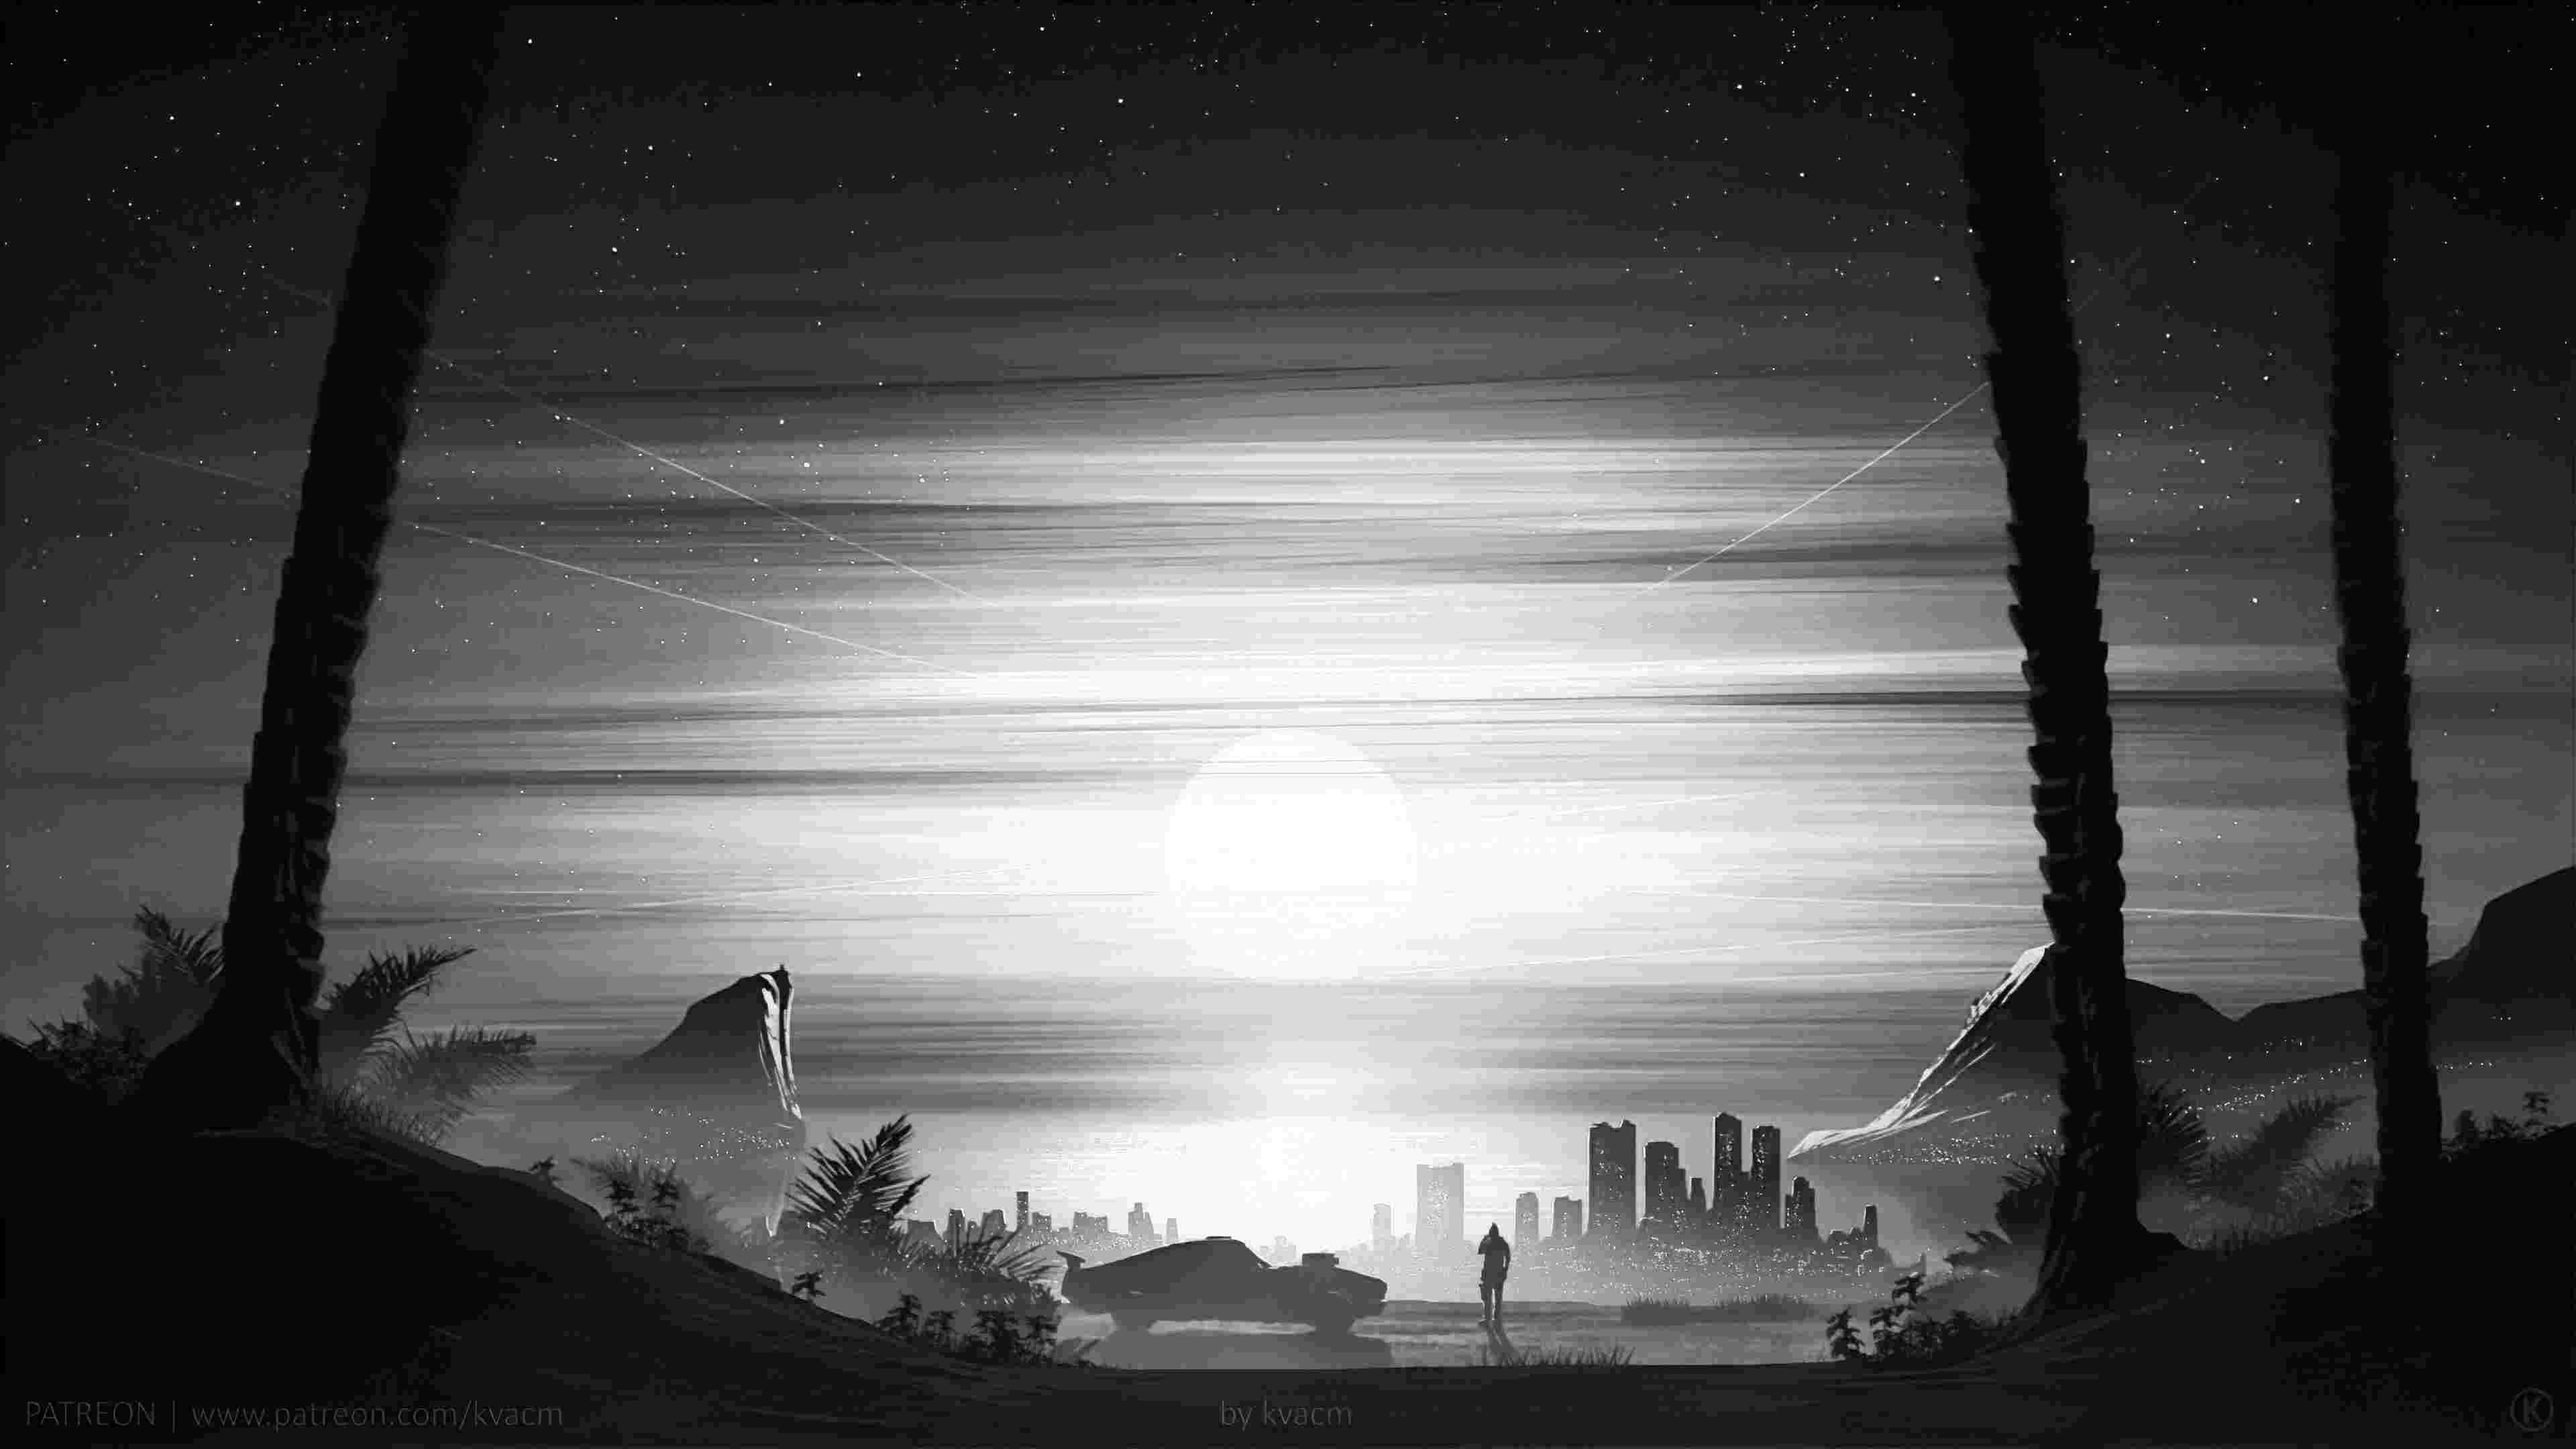
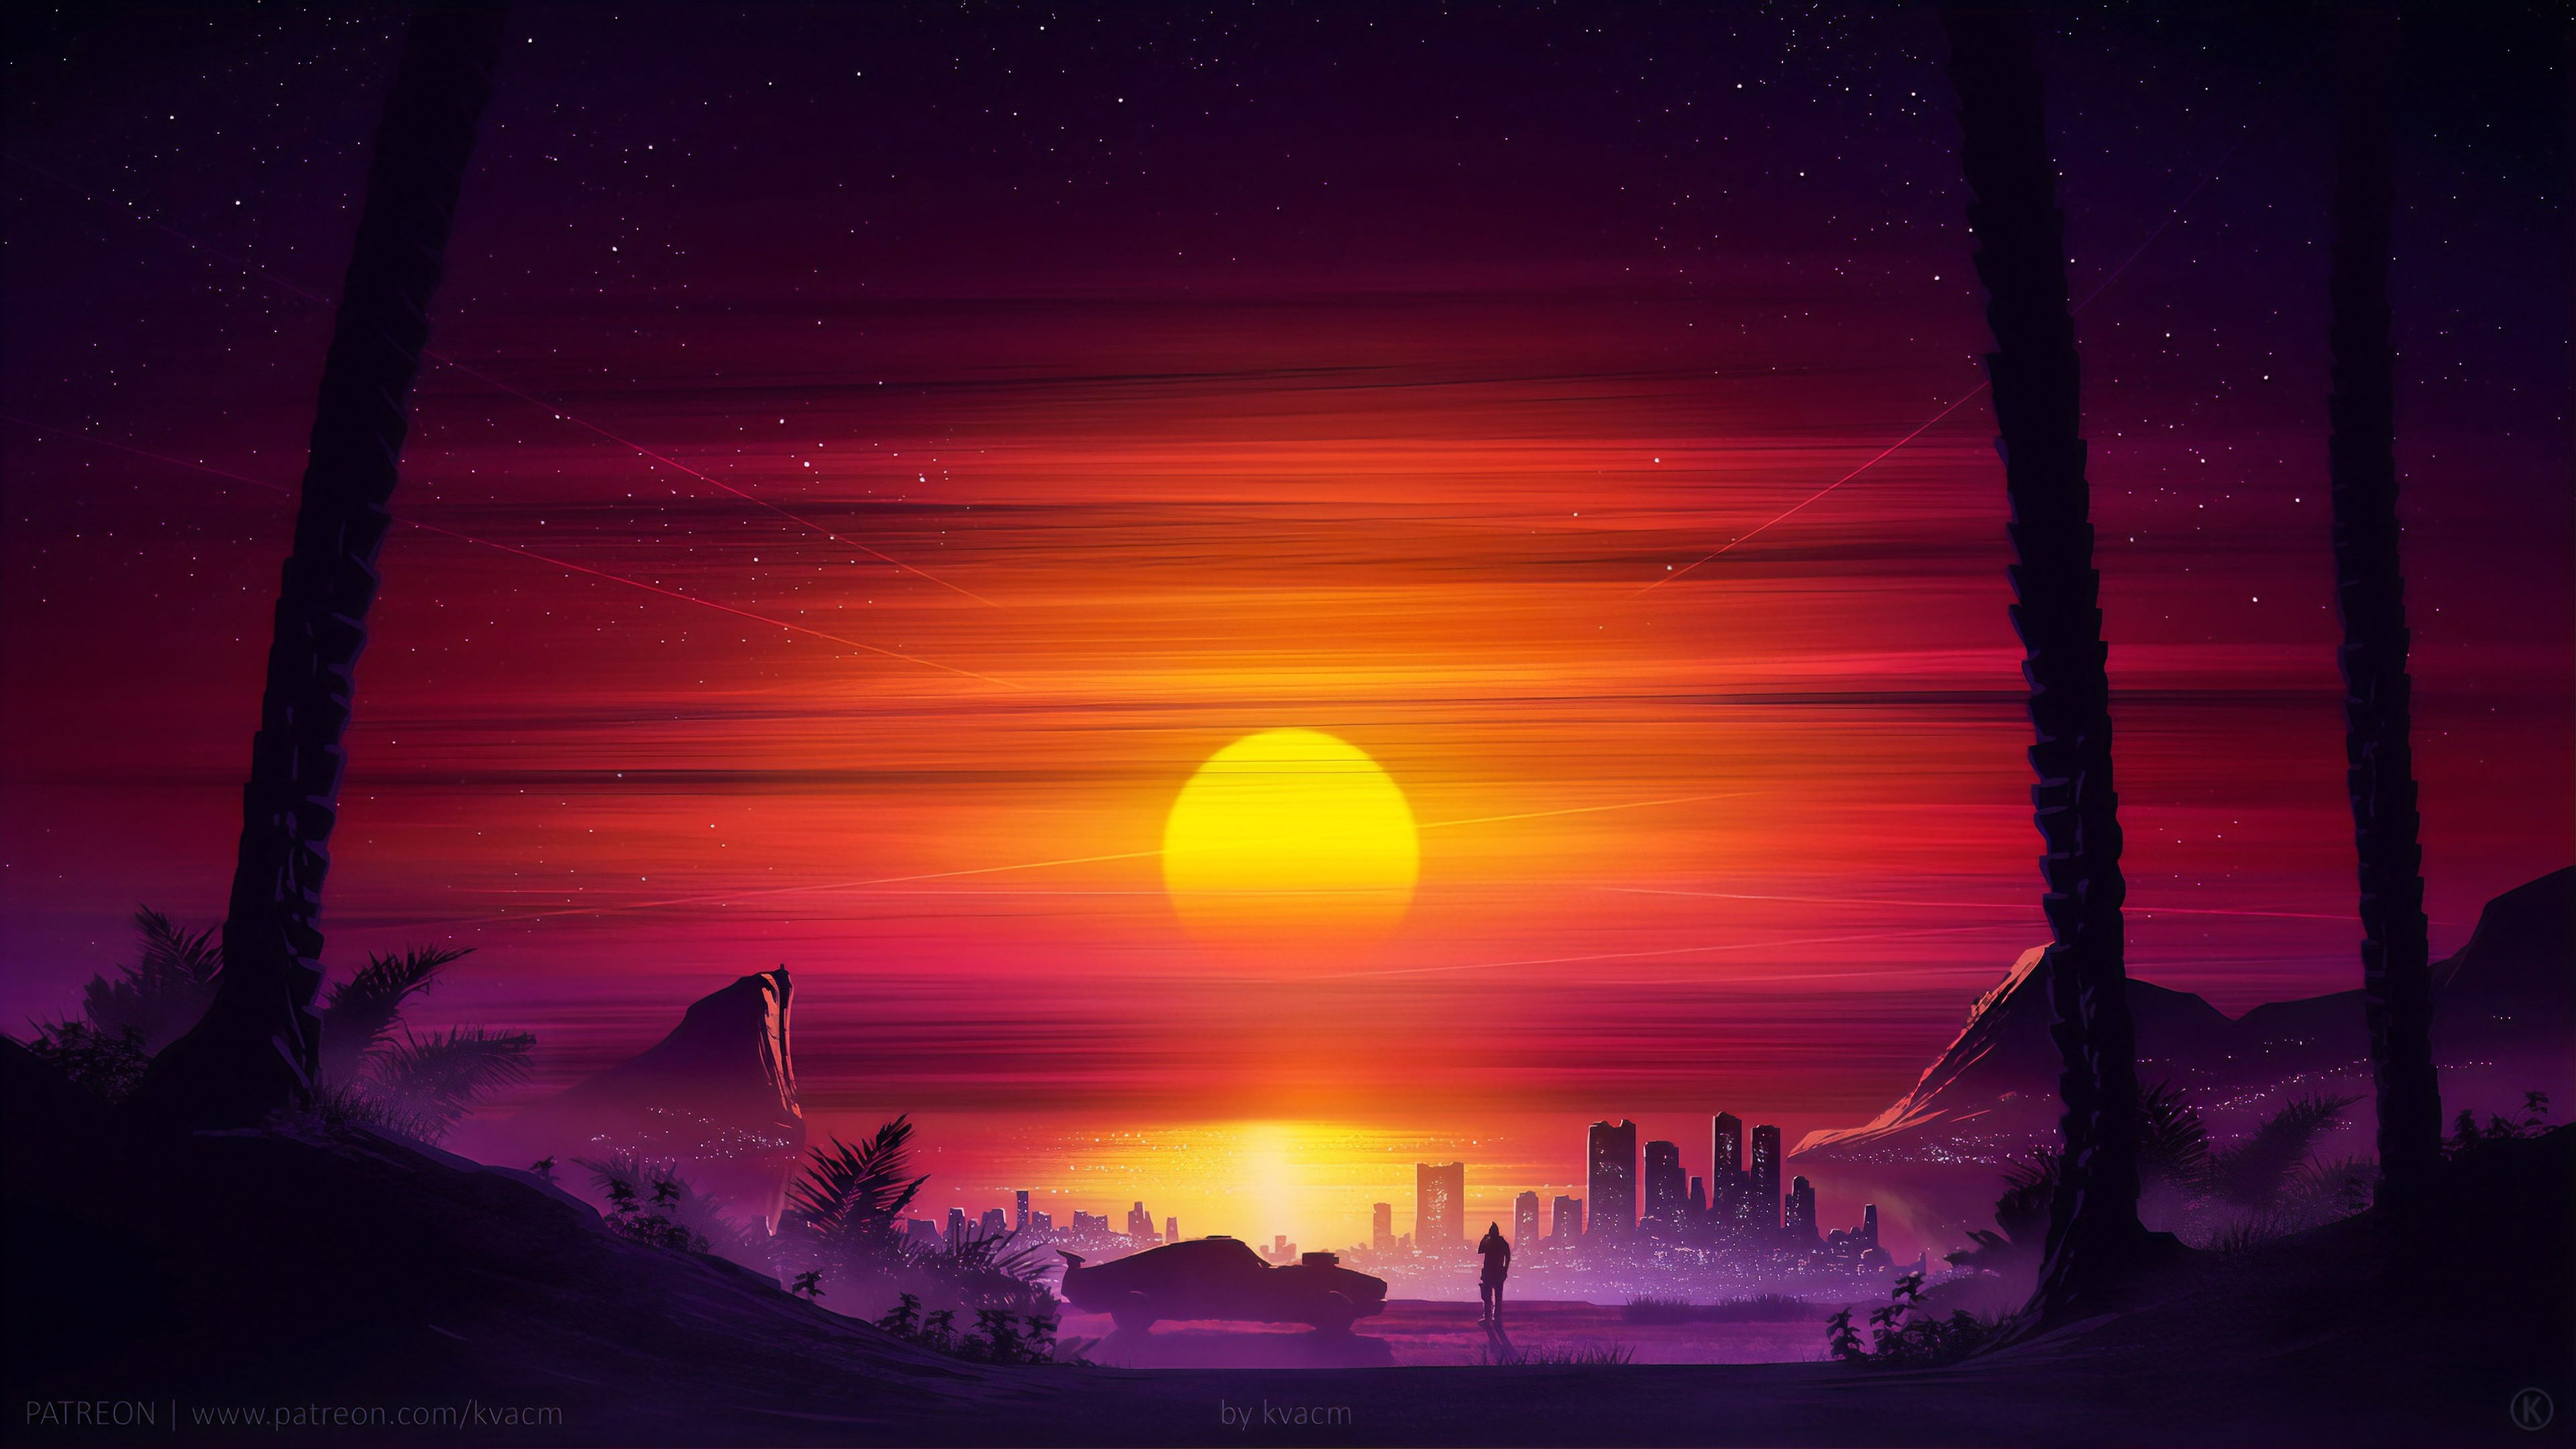
image segment and reconstruct finished

diff --git a/filters.hpp b/filters.hpp
@@ -1,49 +1,49 @@
-#ifndef FILTERS_H
-#define FILTERS_H
+// #ifndef FILTERS_H
+// #define FILTERS_H
 
-#include "types.hpp"
+// #include "types.hpp"
 
-class Filters
-{
-    public:
+// class Filters
+// {
+//     public:
 
-    us_ch* filter_data; 
-    int height,width,channels;
+//     us_ch* filter_data; 
+//     int height,width,channels;
 
-    Filters(Image img)
-    {
-        filter_data=img.img_data;
-        height=img.height;
-        width=img.width;
-        channels=img.channels;
-    }
+//     Filters(Image img)
+//     {
+//         filter_data=img.img_data;
+//         height=img.height;
+//         width=img.width;
+//         channels=img.channels;
+//     }
 
-    void convertToGrayscale()
-    {
-        for (int i = 0; i < height; ++i) 
-        {
-            for (int j = 0; j < width; ++j) 
-            {
-                int index = (i * width + j) * channels;
-                us_ch r = filter_data[index];
-                us_ch g = filter_data[index + 1];
-                us_ch b = filter_data[index + 2];
-                us_ch gray = static_cast<us_ch>(0.299f * r + 0.587f * g + 0.114f * b);
-                filter_data[index] = filter_data[index + 1] = filter_data[index + 2] = gray;
-            }
-        }
-    }
-
-
-    void save_filter_img()
-    {
-        if (!stbi_write_jpg("output_img/gray.jpg", width, height, channels,filter_data, 100)) {
-        cerr << "Error: Could not save processed image\n";
-        }
-    }
-
-};
+//     void convertToGrayscale()
+//     {
+//         for (int i = 0; i < height; ++i) 
+//         {
+//             for (int j = 0; j < width; ++j) 
+//             {
+//                 int index = (i * width + j) * channels;
+//                 us_ch r = filter_data[index];
+//                 us_ch g = filter_data[index + 1];
+//                 us_ch b = filter_data[index + 2];
+//                 us_ch gray = static_cast<us_ch>(0.299f * r + 0.587f * g + 0.114f * b);
+//                 filter_data[index] = filter_data[index + 1] = filter_data[index + 2] = gray;
+//             }
+//         }
+//     }
 
 
+//     void save_filter_img()
+//     {
+//         if (!stbi_write_jpg("output_img/gray.jpg", width, height, channels,filter_data, 100)) {
+//         cerr << "Error: Could not save processed image\n";
+//         }
+//     }
 
-#endif
+// };
+
+
+
+// #endif

diff --git a/main.cpp b/main.cpp
@@ -25,33 +25,33 @@ int main(int argc,char** argv)
     // //initialise thread pool
     int numThreads = thread::hardware_concurrency();
     
-    vector<thread> threads;
-    threads.reserve(numThreads);
-    cout<<"[INFO]: Initialised Threads"<<endl;
+    // vector<thread> threads;
+    // threads.reserve(numThreads);
+    // cout<<"[INFO]: Initialised Threads"<<endl;
 
 
     //divide image into segments
     vector <IMGSEG> segments= ImageSegment::segmentImageforThread(img, numThreads);
-    cout<<"[INFO]: Divided Image into Segments"<<endl;
-    //assign segments to threads
-    for(int i=0;i<numThreads;i++)
-    {
-        threads.emplace_back(FilterSegment :: convertToGray,&segments[i]);
-    }
-    cout<<"[INFO]: Assigned Segments to Threads"<<endl;
+    // cout<<"[INFO]: Divided Image into Segments"<<endl;
+    // //assign segments to threads
+    // for(int i=0;i<numThreads;i++)
+    // {
+    //     threads.emplace_back(FilterSegment :: convertToGray,&segments[i]);
+    // }
+    // cout<<"[INFO]: Assigned Segments to Threads"<<endl;
     
 
-    // //wait for all threads to complete
-    cout<<"[INFO]: Waiting for all threads to complete"<<endl;
-    for(auto &thread : threads)
-    {
-        thread.join();
-    }
+    // // //wait for all threads to complete
+    // cout<<"[INFO]: Waiting for all threads to complete"<<endl;
+    // for(auto &thread : threads)
+    // {
+    //     thread.join();
+    // }
 
 
     us_ch *fin=ImageSegment::reconstructImage(segments,img.height,img.width);
 
-    stbi_write_jpg("output_img/seg.jpg",img.width,img.height,img.channels,fin,90);
+    stbi_write_jpg("output_img/seg.jpg",img.width,img.height,3,img.img_data,90);
 
     
     return 0;

diff --git a/filtersegment.hpp b/filtersegment.hpp
@@ -1,29 +1,29 @@
-#ifndef FILTER_SEG_H
-#define FILTER_SEG_H
+// #ifndef FILTER_SEG_H
+// #define FILTER_SEG_H
 
-#include"types.hpp"
+// #include"types.hpp"
 
 
-class FilterSegment
-{
-    public:
+// class FilterSegment
+// {
+//     public:
     
-    static void convertToGray(IMGSEG *seg)
-    {
-        for(int y=seg->startRow; y< seg->numRows+seg->startRow; y++)
-        {
-            for(int x=0; x<seg->width; x++)
-            {
-                int index = (y * seg->width +x) * seg->channels;
-                us_ch r = seg->img_data[index];
-                us_ch g = seg->img_data[index+1];
-                us_ch b = seg->img_data[index+2];
-                us_ch gray = static_cast<us_ch>(0.299f * r + 0.587f * g + 0.114f * b);
-                seg->img_data[index]=seg->img_data[index+1]=seg->img_data[index+2]=gray;
-            }
-        }
-    }
-};
+//     static void convertToGray(IMGSEG *seg)
+//     {
+//         for(int y=seg->startRow; y< seg->numRows+seg->startRow; y++)
+//         {
+//             for(int x=0; x<seg->width; x++)
+//             {
+//                 int index = (y * seg->width +x) * seg->channels;
+//                 us_ch r = seg->img_data[index];
+//                 us_ch g = seg->img_data[index+1];
+//                 us_ch b = seg->img_data[index+2];
+//                 us_ch gray = static_cast<us_ch>(0.299f * r + 0.587f * g + 0.114f * b);
+//                 seg->img_data[index]=seg->img_data[index+1]=seg->img_data[index+2]=gray;
+//             }
+//         }
+//     }
+// };
 
 
-#endif
+// #endif

diff --git a/imagesegment.hpp b/imagesegment.hpp
@@ -31,8 +31,6 @@ class ImageSegment
 
         const int baseRowPerSegment = image.height / numThread;
         int remainingRow = image.height % numThread;
-        // const int baseRowPerSegment = 10 / numThread;
-        // int remainingRow = 10 % numThread;
         int currentRow=0;
 
         for(int ind = 0; ind < numThread; ind++)
@@ -75,7 +73,9 @@ static us_ch* reconstructImage(std::vector<IMGSEG> segments, int fHeight, int fW
                 // Ensure index is within bounds
                 if (imgIndex + 2 < fHeight * fWidth * 3)
                 {
-                    finalImg[imgIndex] = finalImg[imgIndex + 1] = finalImg[imgIndex + 2] = seg.img_data[segIndex];
+                    finalImg[imgIndex] = seg.img_data[segIndex];
+                    finalImg[imgIndex + 1] = seg.img_data[segIndex+1];
+                    finalImg[imgIndex + 2] = seg.img_data[segIndex+2];
                 }
             }
         }
